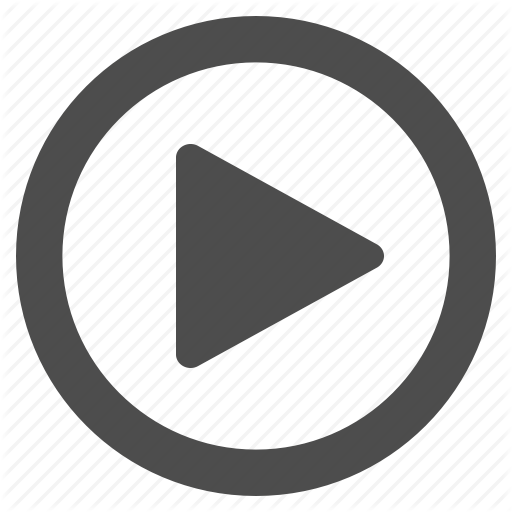
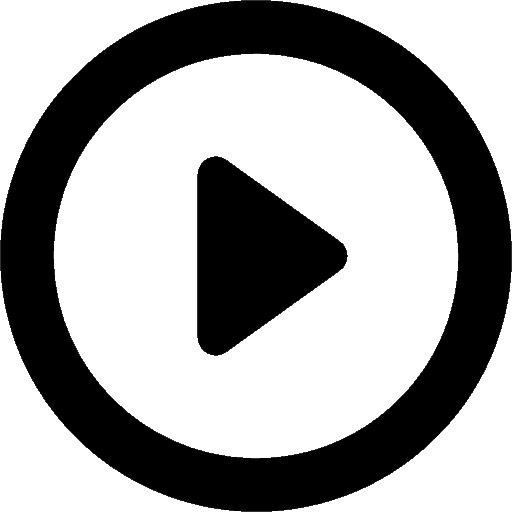
Organized the frames with functions, added a play button and a play menu; put all the GUI related stuff in app.py, and put the old code in app.py in run.py

diff --git a/source/app.py b/source/app.py
@@ -1,13 +1,10 @@
-import IOUtils
-from TestCase import TestCase
-import sys; import os
-sys.path.append(os.path.join(os.path.dirname(__file__), '..'))
-from utils.defaults import *
-from utils import notes_config
-import configparser
 from PyQt6.QtCore import Qt, QSize
 from PyQt6.QtGui import QFont, QIcon, QPixmap, QGuiApplication
 from PyQt6.QtWidgets import QApplication, QLabel, QMainWindow, QFrame, QPushButton, QVBoxLayout, QHBoxLayout, QWidget
+import sys; import os
+sys.path.append(os.path.join(os.path.dirname(__file__), '..'))
+from utils.defaults import *
+import run
 
 class MyGUI(QWidget):
 	FONT = QFont('Arial', 18)
@@ -23,23 +20,11 @@ class MyGUI(QWidget):
 		self.showMaximized()
 		self.back_arrow = QIcon("static/back_button.png")#.scaledToWidth(20))
 		self.settings_image = QIcon("static/settings.png")#.scaledToWidth(20))
-		self.play_image = QIcon("static")
+		self.play_image = QIcon("static/play_button.png")
 
-		self.main_menu = QFrame(self)
-
-		#self.setCentralWidget(self.main_menu)
-
-		self.settings = QFrame(self)
-
-
-		self.get_back_button(self.settings)
-		self.get_back_button(self.main_menu)
-
-		self.get_main_menu_button(self.settings)
-		self.get_settings_button(self.main_menu)
-
-		self.create_frame_title("Settings", self.settings)
-		self.create_frame_title("Main menu", self.main_menu)
+		self.setup_main_menu()
+		self.setup_settings()
+		self.setup_play_menu()
 
 		self.states = [self.main_menu]
 		self.current_frame = self.main_menu
@@ -52,6 +37,26 @@ class MyGUI(QWidget):
 		#main_menu_layout.setStretchFactor(main_menu_layout.itemAt(0), 1)
 		main_menu_layout.addStretch()'''
 	
+
+	def setup_main_menu(self): #TODO: add translations
+		self.main_menu = QFrame(self)
+		self.create_frame_title("Main menu", self.main_menu)
+		self.get_back_button(self.main_menu)
+		self.get_settings_button(self.main_menu)
+		self.get_play_button(self.main_menu)
+
+	def setup_settings(self):
+		self.settings = QFrame(self)
+		self.create_frame_title("Settings", self.settings)
+		self.get_main_menu_button(self.settings)
+		self.get_back_button(self.settings)
+	
+	def setup_play_menu(self):
+		self.play_menu = QFrame(self)
+		self.create_frame_title("Choose a test", self.play_menu)
+		self.get_back_button(self.play_menu)
+		self.get_settings_button(self.play_menu)
+
 	@staticmethod
 	def get_center(width=0, height=0):
 		x:int = width // 2
@@ -88,131 +93,33 @@ class MyGUI(QWidget):
 			self.current_frame = self.states.pop()
 			self.current_frame.show()
 
+	def get_main_menu_button(self, frame:QFrame):
+		button = QPushButton('Main menu', frame)
+		button.setFont(type(self).FONT)
+		button_size = button.sizeHint()
+		self.center_widget_x(button, 100, button_size.width(), button_size.height())
+		
+		button.clicked.connect(lambda: self.goto_frame(self.main_menu))
+		return button
+
 	def get_back_button(self, frame:QFrame):
-		back_button = QPushButton(frame)
-		back_button.setIcon(self.back_arrow)
-		back_button.setGeometry(type(self).OFFSET_X, type(self).OFFSET_Y, type(self).button_size, type(self).button_size)
-		back_button.setIconSize(back_button.size())
-		#back_button.setIconSize(QSize(20, 20))
-		#back_button.setFixedSize(25, 25)
-		back_button.clicked.connect(self.go_back)
-		return back_button
+		return self.get_button_with_image(frame, self.back_arrow, 0, self.go_back)
 
 	def get_settings_button(self, frame:QFrame):
-		button_settings = QPushButton(frame)
-		button_settings.setIcon(self.settings_image)
-		button_settings.setGeometry(type(self).button_size + type(self).OFFSET_X, type(self).OFFSET_Y, type(self).button_size, type(self).button_size)
-		button_settings.setIconSize(button_settings.size())
-		#button_settings.setIconSize(QSize(20, 20))
-		#button_settings.setFixedSize(50, 50)
-		button_settings.clicked.connect(lambda: self.goto_frame(self.settings))
-		return button_settings
-
-	def get_main_menu_button(self, frame:QFrame):
-		main_menu_button = QPushButton('Main menu', frame)
-		main_menu_button.setFont(type(self).FONT)
-		button_size = main_menu_button.sizeHint()
-		self.center_widget_x(main_menu_button, 100, button_size.width(), button_size.height())
-		
-		main_menu_button.clicked.connect(lambda: self.goto_frame(self.main_menu))
-		return main_menu_button
-
-	def get_play_button(self, frame:QFrame):
-		button = QPushButton(frame)
-		button.setIcon(self.play_image)
-
-''' def settings(self):
-		self.root.destroy() #destroys the window itself
-		self.destroy_all_widgets()
-		self.get_back_button().pack()
-		self.get_main_menu_button().pack()
-		notes_setting_label = notes_config.get_setting(notes_config.NOTES_SETTING)
-
-		print("Settings accessed")'''
-
-
-def retrieveInfo():
-		name = input("Player Name:\n")
-		while True:
-			bpm = input(f"Bpm (default: {DEFAULT_BPM}bpm):\n")
-			if bpm == "":
-				bpm = DEFAULT_BPM
-				break
-			elif bpm.isnumeric():
-				bpm = float(bpm)
-				break
-			print('That is not a valid bpm number. Try again.')
-		
-		while True:
-			instrument = input(f"Instrument ({' or '.join(INSTRUMENTS)}; {DEFAULT_INSTRUMENT } is default):\n")
-			if instrument == "":
-				instrument = 'piano'
-				break
-			elif instrument in INSTRUMENTS:
-				break
-			print('That is not a valid instrument; try again.')
-		return name, bpm, instrument
-
-def home() -> str:
-	return input("1 -> Start\n2 -> Import from file\n0 -> Quit\nsettings -> to change the settings\nsettings_reset -> to reset all settings to default (this might fix some bugs regarding settings\n> ")
+		return self.get_button_with_image(frame, self.settings_image, 1, lambda: self.goto_frame(self.settings))
 	
-def settings_prompt():
-	try:
-		while True:
-			setting = input(f"""
-What setting do you want to alter? Current values:
-{notes_config.NOTES_SETTING} = {notes_config.get_setting(notes_config.NOTES_SETTING)}
-{notes_config.NOTE_INTENSITY_SETTING} = {notes_config.get_setting(notes_config.NOTE_INTENSITY_SETTING)}
-{notes_config.NOTE_VALUE_SETTING} = {notes_config.get_setting(notes_config.NOTE_VALUE_SETTING)}
-""")    
-		
-			if notes_config.does_setting_exist(setting):
-				new_value = input("What value do you want to alter it to?\n")
-				notes_config.change_setting(setting, new_value)
-				print("Settings saved.")
-				break
-			print("Setting doesn't exist. Try again.")
-	except (KeyError, configparser.ParsingError) as e:
-		reset_bool = input(f"{e}\nsettings.ini file is probably corrupted. Reset it to default settings?\n ({user_input_messages.yes_or_no})")
-		if reset_bool == user_input_messages.yes:
-			notes_config.reset_settings()
-			print("All settings have been successfully reset.\n")
-		else:
-			print('Cancelling operation. Fix your settings.ini file or contact the developers.\n')
+	def get_play_button(self, frame:QFrame):
+		return self.get_button_with_image(frame, self.play_image, 2, lambda: self.goto_frame(self.play_menu))
+	
+	def get_button_with_image(self, frame:QFrame, icon:QIcon, order:int, command):
+		button_size = type(self).button_size
+		button = QPushButton(frame)
+		button.setIcon(icon)
+		button.setGeometry(button_size * order + type(self).OFFSET_X, type(self).OFFSET_Y, button_size, button_size)
+		button.setIconSize(button.size())
+		button.clicked.connect(command)
+		return button
 
-def old_main() -> None:
-	IOUtils.cls()
-	while True:
-		option = home()
-		if option == "debug":
-			TestCase.debug()
-			input("Debugging session finished.\nPress ENTER to continue.")
-			return
-		if option == 'settings':
-			settings_prompt()
-		
-		elif option == 'settings_reset':
-			notes_config.reset_settings()
-			print("All settings have been successfully reset.")
-
-		elif not option.isnumeric() or not 0 <= int(option) <= 2:
-			print(f"The input needs to be a number from 0 to 2. '{option}' was given. Try again.\n\n")
-		
-		else:
-
-			while True:
-				if option == '0':
-					return
-				info =  retrieveInfo()  
-				if option == '2':
-					TestCase.executeFromFile(*info)
-						
-				elif option == '1':
-					TestCase.executeLoop(*info)
-				
-				else:
-					raise TypeError(f"The input needs to be a number from 0 to 2. {option} was given.")
-				
 def main():
 	app = QApplication([])
 	gui = MyGUI()

diff --git a/source/run.py b/source/run.py
@@ -1,0 +1,92 @@
+import IOUtils
+from TestCase import TestCase
+import sys; import os
+sys.path.append(os.path.join(os.path.dirname(__file__), '..'))
+from utils.defaults import *
+from utils import notes_config
+import configparser
+
+def retrieveInfo():
+		name = input("Player Name:\n")
+		while True:
+			bpm = input(f"Bpm (default: {DEFAULT_BPM}bpm):\n")
+			if bpm == "":
+				bpm = DEFAULT_BPM
+				break
+			elif bpm.isnumeric():
+				bpm = float(bpm)
+				break
+			print('That is not a valid bpm number. Try again.')
+		
+		while True:
+			instrument = input(f"Instrument ({' or '.join(INSTRUMENTS)}; {DEFAULT_INSTRUMENT } is default):\n")
+			if instrument == "":
+				instrument = 'piano'
+				break
+			elif instrument in INSTRUMENTS:
+				break
+			print('That is not a valid instrument; try again.')
+		return name, bpm, instrument
+
+def home() -> str:
+	return input("1 -> Start\n2 -> Import from file\n0 -> Quit\nsettings -> to change the settings\nsettings_reset -> to reset all settings to default (this might fix some bugs regarding settings\n> ")
+	
+def settings_prompt():
+	try:
+		while True:
+			setting = input(f"""
+What setting do you want to alter? Current values:
+{notes_config.NOTES_SETTING} = {notes_config.get_setting(notes_config.NOTES_SETTING)}
+{notes_config.NOTE_INTENSITY_SETTING} = {notes_config.get_setting(notes_config.NOTE_INTENSITY_SETTING)}
+{notes_config.NOTE_VALUE_SETTING} = {notes_config.get_setting(notes_config.NOTE_VALUE_SETTING)}
+""")    
+		
+			if notes_config.does_setting_exist(setting):
+				new_value = input("What value do you want to alter it to?\n")
+				notes_config.change_setting(setting, new_value)
+				print("Settings saved.")
+				break
+			print("Setting doesn't exist. Try again.")
+	except (KeyError, configparser.ParsingError) as e:
+		reset_bool = input(f"{e}\nsettings.ini file is probably corrupted. Reset it to default settings?\n ({user_input_messages.yes_or_no})")
+		if reset_bool == user_input_messages.yes:
+			notes_config.reset_settings()
+			print("All settings have been successfully reset.\n")
+		else:
+			print('Cancelling operation. Fix your settings.ini file or contact the developers.\n')
+
+def main() -> None:
+	IOUtils.cls()
+	while True:
+		option = home()
+		if option == "debug":
+			TestCase.debug()
+			input("Debugging session finished.\nPress ENTER to continue.")
+			return
+		if option == 'settings':
+			settings_prompt()
+		
+		elif option == 'settings_reset':
+			notes_config.reset_settings()
+			print("All settings have been successfully reset.")
+
+		elif not option.isnumeric() or not 0 <= int(option) <= 2:
+			print(f"The input needs to be a number from 0 to 2. '{option}' was given. Try again.\n\n")
+		
+		else:
+
+			while True:
+				if option == '0':
+					return
+				info =  retrieveInfo()  
+				if option == '2':
+					TestCase.executeFromFile(*info)
+						
+				elif option == '1':
+					TestCase.executeLoop(*info)
+				
+				else:
+					raise TypeError(f"The input needs to be a number from 0 to 2. {option} was given.")
+		
+if __name__ == "__main__":
+	main()
